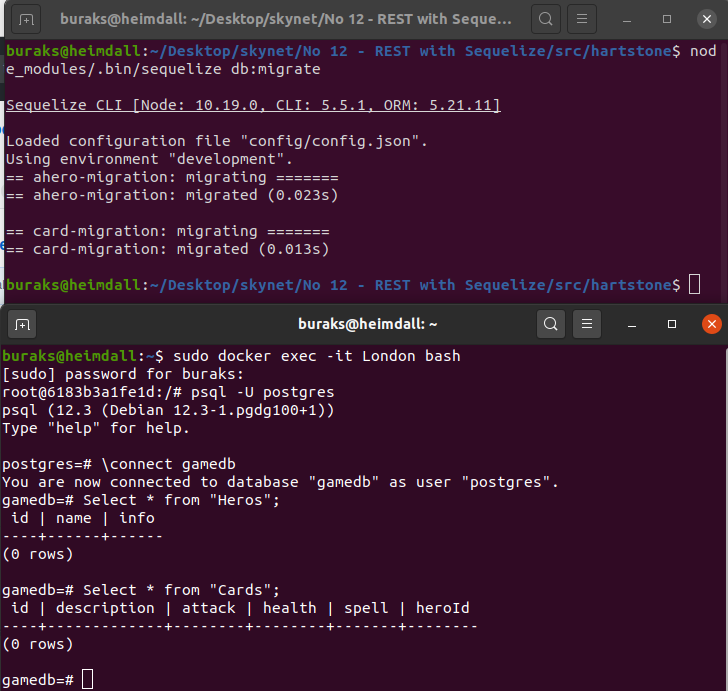
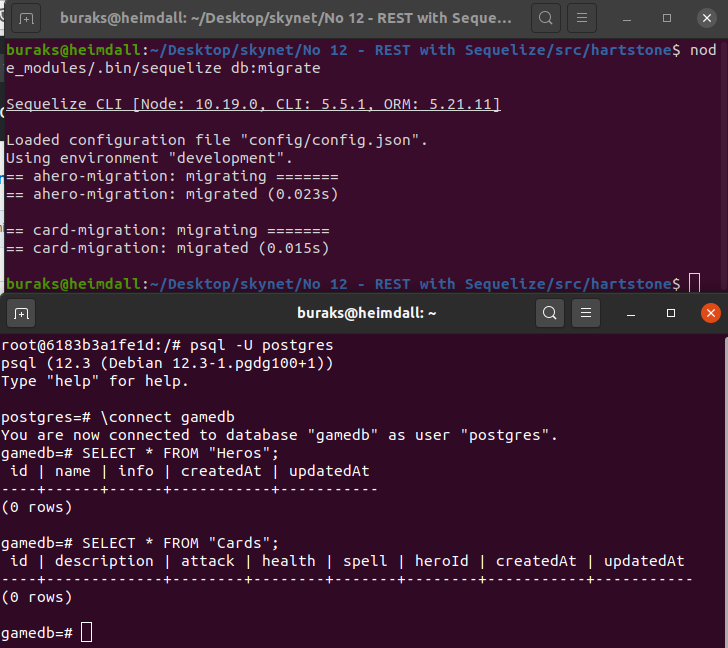
Konu anlatımı

Changed region(s): [[0.0, 0.0, 1.0, 1.0], [0.6951, 0.8333, 0.9368, 0.8951]]

diff --git a/No 12 - REST with Sequelize/README.md b/No 12 - REST with Sequelize/README.md
@@ -29,11 +29,14 @@ node_modules/.bin/sequelize init
 
 Bu işlemle üç klasör oluşur. Veritabanı ayarları config klasöründeki config.json dosyasında tanımlanır. Migration işlemlerinin bulunduğu kod dosyaları için migrations klasörü kullanılır. Entity modelleri ise models klasörüne konuşlandırılır. 
 
-## Yapılanlar _(Not Completed)_
+## Yapılanlar
 
 - config/config.json içeriği postgresql kullanılacak şekilde düzenlendi.
 - models klasöründe hero ve card isimli iki javascript dosyası eklendi.
 - migrations klasöründe hero-migration ve card-migration isimli javascript dosyaları oluşturuldu.
+- controller klasörü oluşturuldu ve içerisine hero, card, index javascript dosyaları eklendi.
+- routes klasörü oluşturuldu ve içerisine index.js eklendi
+- ana klasördeki index.js içeriği yazıldı
 
 Bu işlemler ardından db migration süreci başlatılabilir ve tabloların oluşup oluşmadığı kontrol edilebilir.
 
@@ -47,4 +50,35 @@ node_modules/.bin/sequelize db:migrate
 
 ## Çalışma Zamanı
 
-_Not Completed_
+Ana klasördeki index.js dosyasını çalıştırmak ve Postman ile 5555 portundan hizmet veren servise HTTP Get, Post talepleri göndermek yeterli.
+
+```bash
+node index.js
+```
+
+Örnek bir kahramanın oluşturulması.
+
+```text
+HTTP Post
+http://localhost:5555/game/api/hero
+
+JSON
+
+{
+    "name": "Paladin",
+    "info": "The. Paladin is one of the ten classes in Hearthstone, represented by Uther Lightbringer, Lightforged Uther, Lady Liadrin, Prince Arthas, and Sir Annoy-O."
+}
+```
+
+![Screenshot_2.png](./assets/Screenshot_2.png)
+
+Tüm kahramanların getirilmesi. _(http://localhost:5555/game/api/heros daha iyi durabilir)_
+
+```text
+HTTP Get
+http://localhost:5555/game/api/hero
+```
+
+![Screenshot_3.png](./assets/Screenshot_3.png)
+
+_Card oluşturma ve bir Hero altındaki kartların listelenmesine ait kodların çalışıp çalışmadığı kontrol edilmedi_
